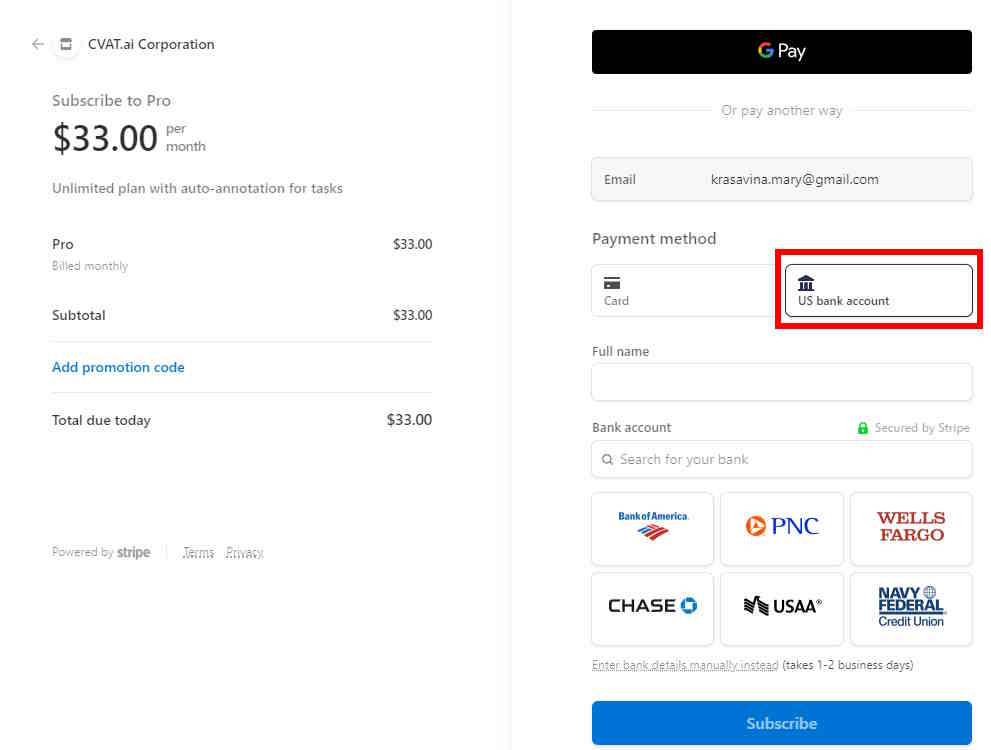
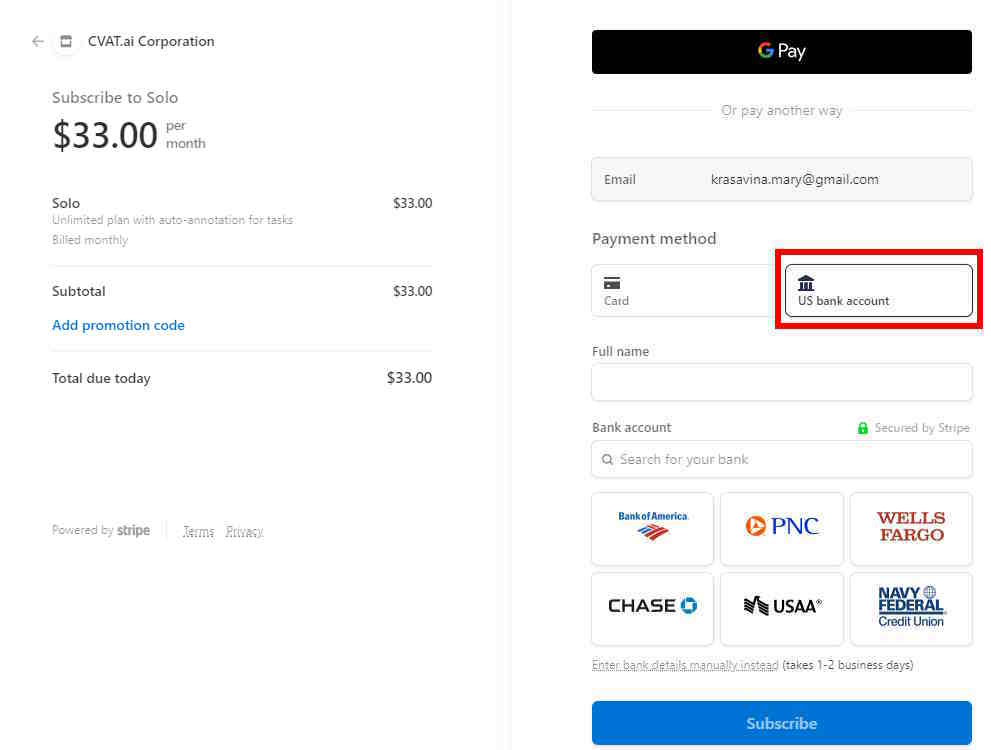
plan name changed to solo documentation

diff --git a/site/content/en/docs/enterprise/subscription-managment.md b/site/content/en/docs/enterprise/subscription-managment.md
@@ -15,23 +15,23 @@ you'll learn how to take control of your subscriptions and manage them.
 See:
 
 - [Billing](#billing)
-  - [Pro plan](#pro-plan)
+  - [Solo plan](#solo-plan)
   - [Team plan](#team-plan)
 - [Payment methods](#payment-methods)
   - [Paying with bank transfer](#paying-with-bank-transfer)
-  - [Change payment method on Pro plan](#change-payment-method-on-pro-plan)
+  - [Change payment method on Solo plan](#change-payment-method-on-solo-plan)
   - [Change payment method on Team plan](#change-payment-method-on-team-plan)
 - [Adding and removing team members](#adding-and-removing-team-members)
-  - [Pro plan](#pro-plan-1)
+  - [Solo plan](#solo-plan-1)
   - [Team plan](#team-plan-1)
 - [Change plan](#change-plan)
 - [Can I subscribe to several plans?](#can-i-subscribe-to-several-plans)
 - [Cancel plan](#cancel-plan)
   - [What will happen to my data?](#what-will-happen-to-my-data)
-  - [Pro plan](#pro-plan-2)
+  - [Solo plan](#solo-plan-2)
   - [Team plan](#team-plan-2)
 - [Plan renewal](#plan-renewal)
-  - [Pro plan](#pro-plan-3)
+  - [Solo plan](#solo-plan-3)
   - [Team plan](#team-plan-3)
 
 ## Billing
@@ -42,9 +42,9 @@ description of limitations for each plan.
 For more information,
 see: [Pricing Plans](https://www.cvat.ai/post/new-pricing-plans)
 
-### Pro plan
+### Solo plan
 
-**Account/Month**: The **Pro** plan has a fixed price and is
+**Account/Month**: The **Solo** plan has a fixed price and is
 designed **for personal use only**. It doesn't allow collaboration with team members,
 but removes all the other limits of the **Free** plan.
 
@@ -74,7 +74,7 @@ This section describes how to change or add payment methods.
 
 To pay with bank transfer:
 
-1. Go to the **Upgrade to Pro**/**Team plan**> **Get started**.
+1. Go to the **Upgrade to Solo**/**Team plan**> **Get started**.
 2. Click **US Bank Transfer**.
 3. Upon successful completion of the payment, the you will receive a receipt via email.
 
@@ -82,11 +82,11 @@ To pay with bank transfer:
 
 ![Bank Transfer Payment](/images/bank_transfer_payment.jpg)
 
-### Change payment method on Pro plan
+### Change payment method on Solo plan
 
-Access Manage **Pro Plan** > **Manage** and click **+Add Payment Method**
+Access Manage **Solo plan** > **Manage** and click **+Add Payment Method**
 
-![Payment pro](/images/update_payment_pro.png)
+![Payment pro](/images/update_payment_solo.png)
 
 ### Change payment method on Team plan
 
@@ -99,7 +99,7 @@ Access **Manage Team Plan** > **Manage** and click **+Add Payment Method**.
 This section describes how to add team members
 to collaborate within one team.
 
-### Pro plan
+### Solo plan
 
 Not available.
 
@@ -120,7 +120,7 @@ but next month you will pay less by the amount of unused funds.
 
 ## Change plan
 
-The procedure is the same for both **Pro** and **Team** plans.
+The procedure is the same for both **Solo** and **Team** plans.
 
 If for some reason you want to change your plan, you need to:
 
@@ -132,7 +132,7 @@ If for some reason you want to change your plan, you need to:
 
 Paid plans are not mutually exclusive.
 You can have several active subscriptions,
-for example, the **Pro** plan and several **Team**
+for example, the **Solo** plan and several **Team**
 plans for different organizations.
 
 ## Cancel plan
@@ -155,13 +155,13 @@ Following the one month, you will receive a
 notification requesting you to either remove the
 excess data or it will be deleted automatically.
 
-### Pro plan
+### Solo plan
 
-Access **Manage Pro Plan** > **Manage** > **Cancel plan**
+Access **Manage Solo plan** > **Manage** > **Cancel plan**
 
 Please, fill out the feedback form, to help us improve our platform.
 
-![Cancel pro](/images/cancel_pro.gif)
+![Cancel pro](/images/cancel_solo.gif)
 
 ### Team plan
 
@@ -176,9 +176,9 @@ Please, fill out the feedback form, to help us improve our platform.
 This section describes how to renew your
 CVAT subscription
 
-### Pro plan
+### Solo plan
 
-Access **Manage Pro Plan** > **Manage** > **Renew plan**
+Access **Manage Solo plan** > **Manage** > **Renew plan**
 
 ### Team plan
 
